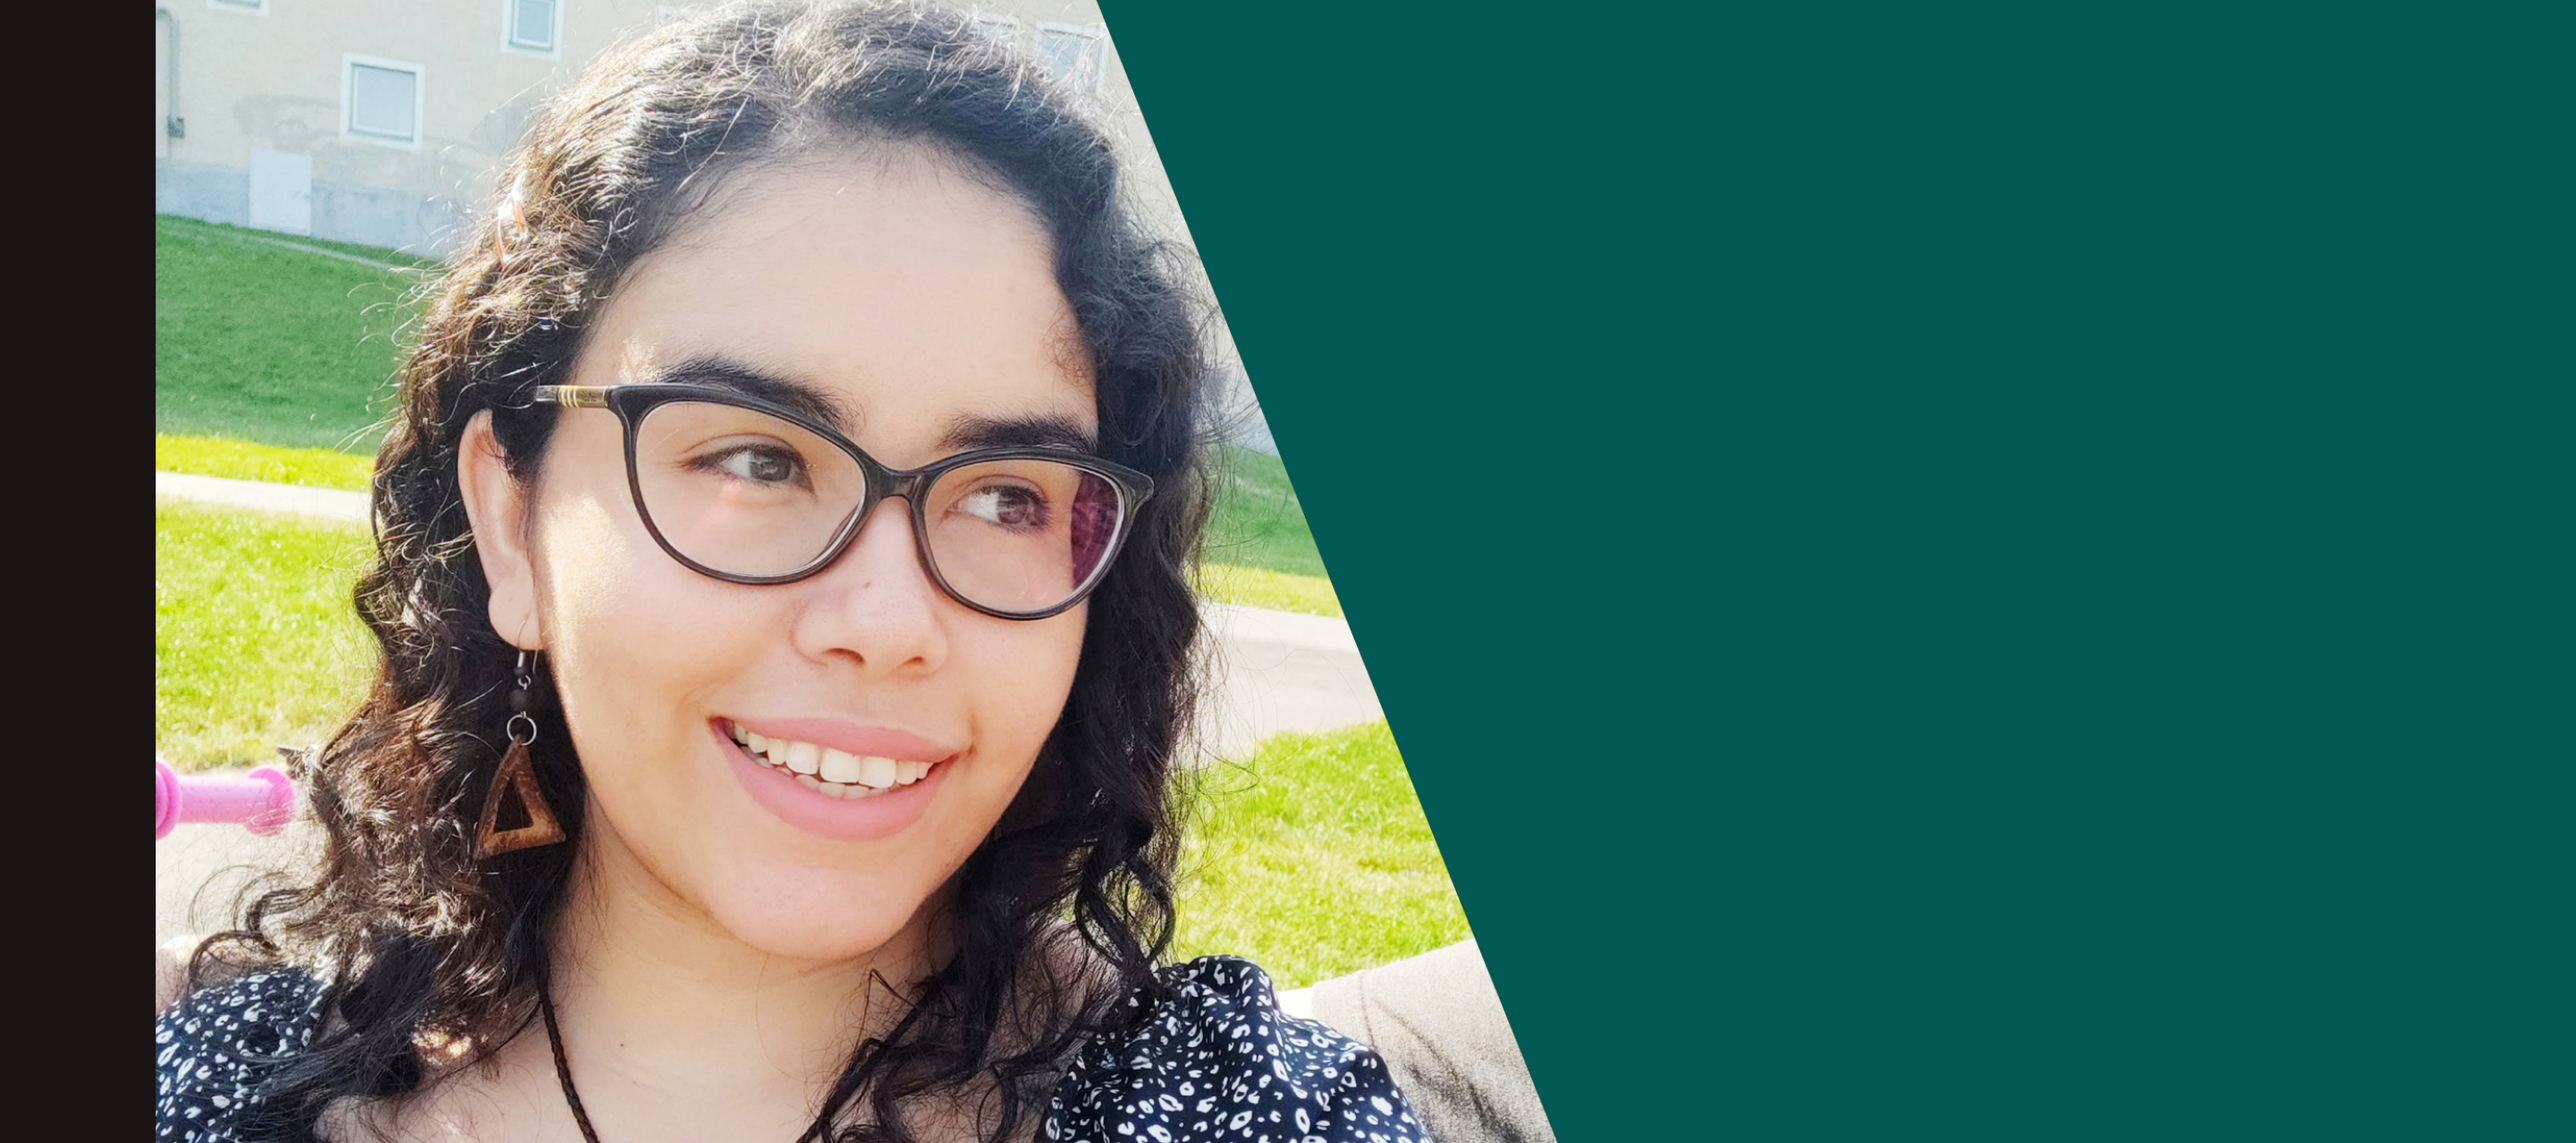
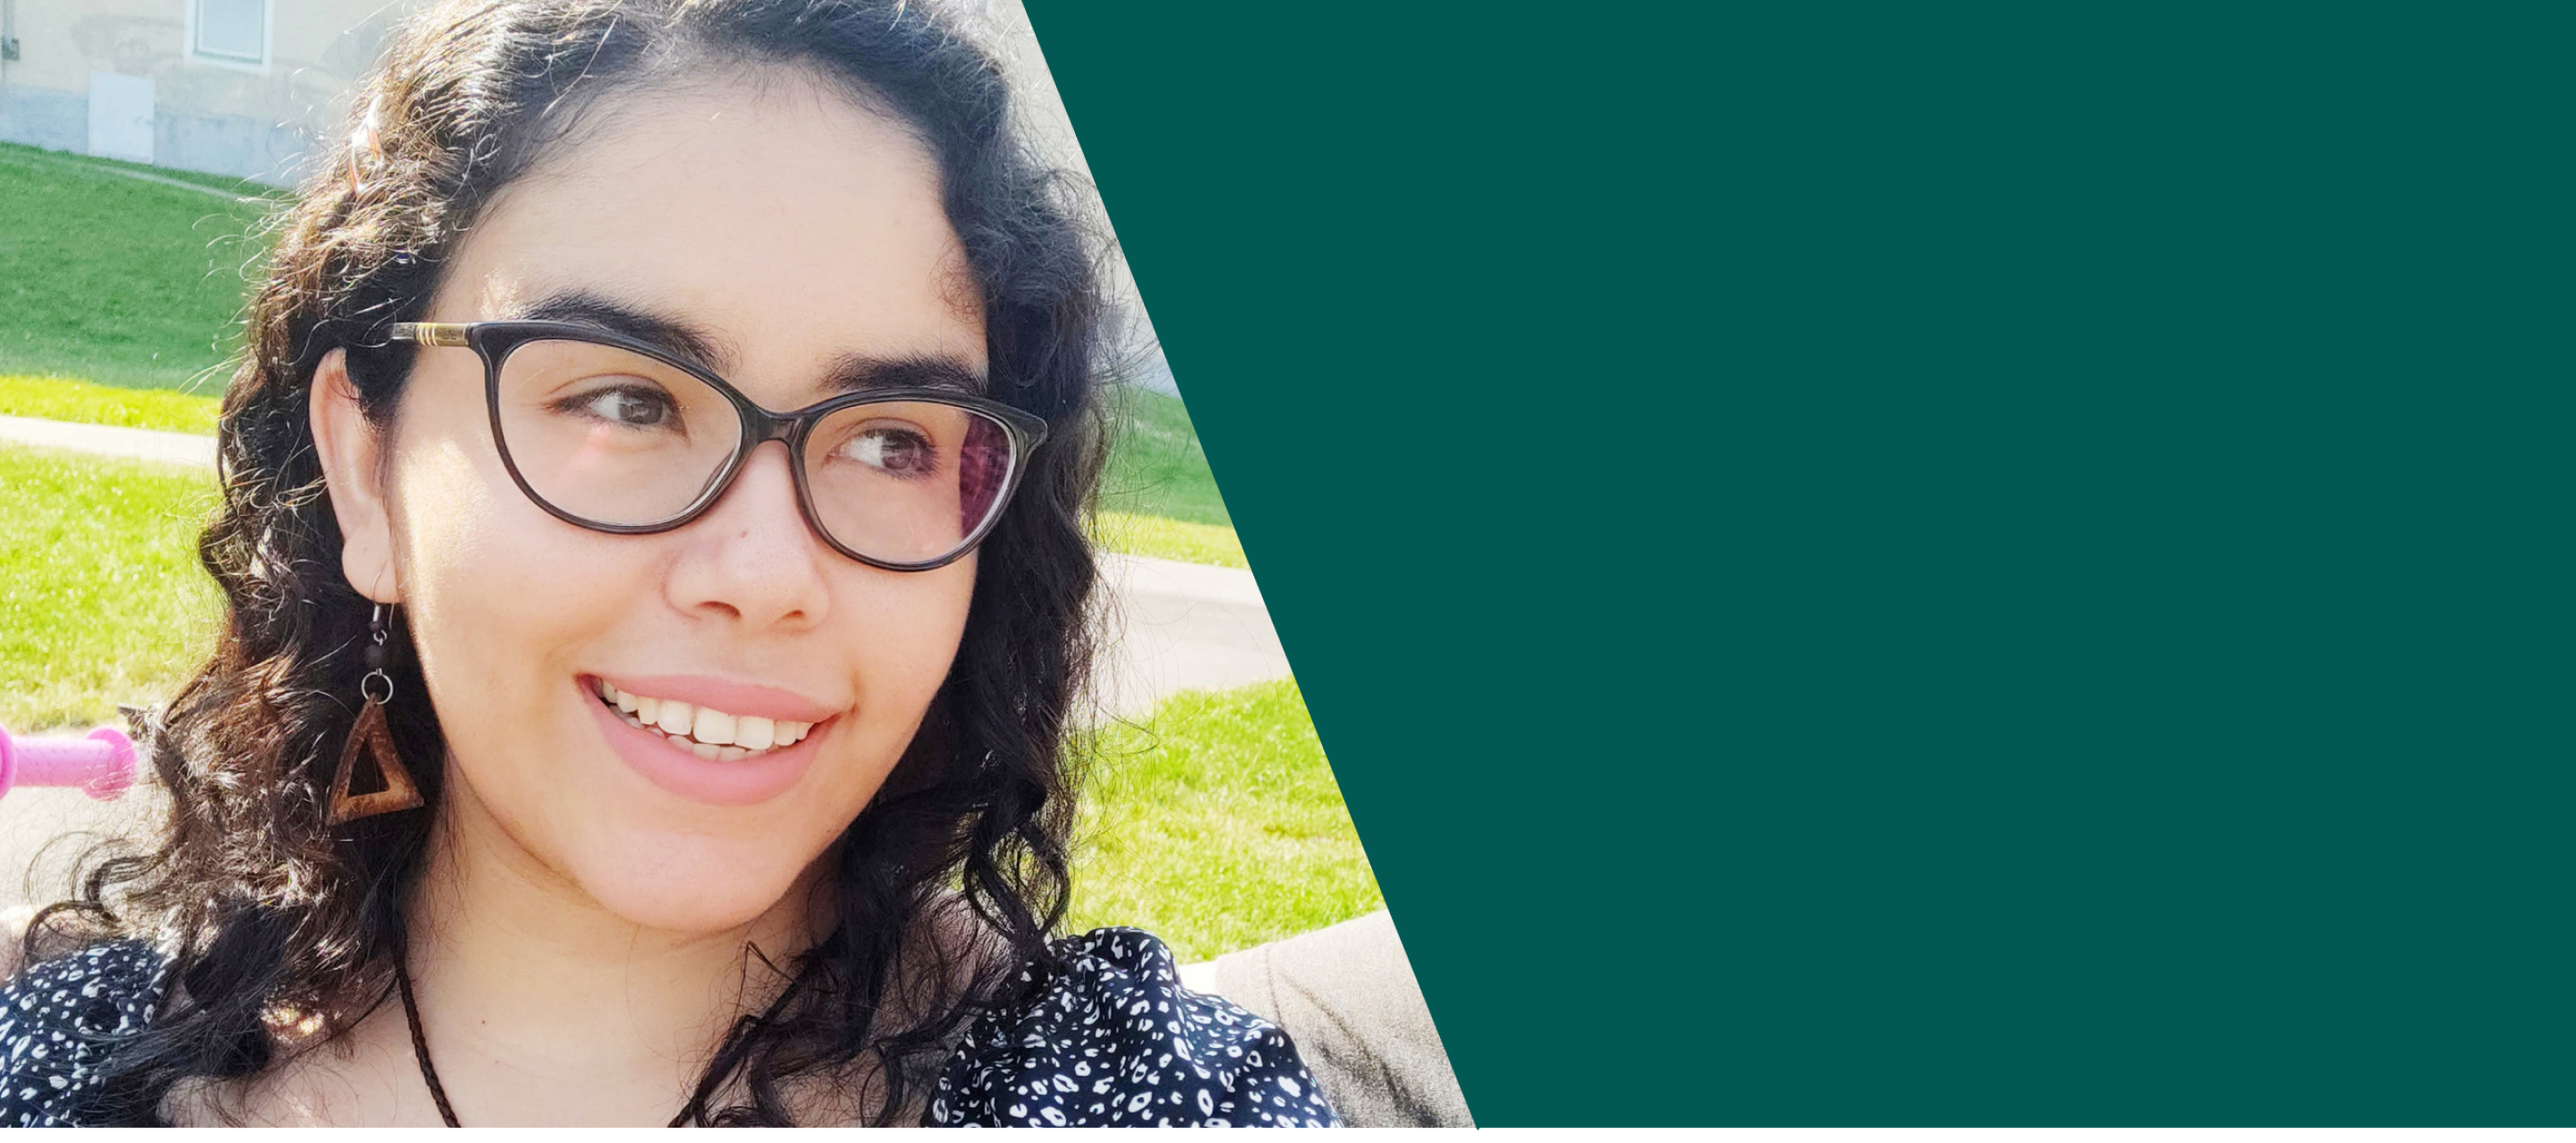
changed some html files and added some stylizations

diff --git a/public/styles/home.css b/public/styles/home.css
@@ -58,14 +58,15 @@ body {
 
 .header {
   width: 100%;
-  padding: 80px 70px 10px 10px;
-  height: 850px;
+  padding: 3vw;
+  height: 85vh;
+  margin-top: 10em;
   background-image: url("../img/myphoto.png");
   background-size: cover;
   display: flex;
   align-items: center;
   flex-direction: column;
-  flex-wrap: wrap;
+  flex-wrap: nowrap;
   align-content: flex-end;
   justify-content: center;
   align-self: center;
@@ -73,56 +74,91 @@ body {
 
 .no-fill {
   color: #fff;
-  font-size: 1.2rem;
-  margin: 4vh;
-  padding-top: 5vw;
-  width: 30%;
-  height: 10%;
-  font-family: Archivo, Consolas, "Courier New", monospace;
+  font-size: 2.1rem;
+  margin: 0 3em 0.5em 0;
+  padding-bottom: 0.6em;
+  padding-top: 3.5em;
+  width: 13em;
+  height: 8em;
+  font-family: Cabin, Consolas, "Courier New", monospace;
   text-decoration: none;
   line-height: 3rem;
   font-style: normal;
+  align-self: flex-end;
 }
 
-@media only screen and (max-width: 401px) {
+.about-blog {
+  padding: 2rem 2.8em 2em 0;
+  margin-right: 2em;
+  margin-top: 2em;
+  width: 20em;
+  height: 10em;
+  font-weight: 600;
+  line-height: 2.1rem;
+  font-family: Cabin, Arial, Helvetica, sans-serif;
+  font-size: 1.4rem;
+  color: rgb(255, 247, 247);
+  font-style: normal;
+  align-self: flex-end;
+}
+
+.social-icons {
+  align-self: flex-end;
+  padding: 2em;
+  align-items: space-between;
+
+}
+
+.social-icons a {
+  padding: 0.3em;
+}
+
+.social-icons img {
+  border-radius: 10px;
+  width: 50px;
+  height: 50px;
+}
+
+/*For Ipad*/
+@media only screen and (max-width: 1024px) {
   .navbar {
     width: 100%;
-    height: 100px;
+    height: 8em;
+    padding: 1em;
     position: fixed;
     display: flex;
-    flex-wrap: wrap;
-    justify-content: space-between;
+    justify-content: space-around;
     align-items: center;
-    padding: 0 5vw;
     background: #fff;
     z-index: 9;
   }
 
   .links-container {
-    display: flex;
-    flex-wrap: wrap;
+    align-items: center;
+    flex-wrap: nowrap;
+    margin: 0.2em;
+    
   }
 
-  .link {
-    padding: 5px;
-    margin-left: 5px;
+  .links-container li {
+    align-self: center;
+    font-size: 25px;
     text-decoration: none;
     color: #1b1415;
     font-family: Archivo, Arial, sans-serif;
     font-weight: 700;
-    font-size: 12px;
   }
 
   .logo {
-    width: 70px;
-    height: 70px;
+    width: 80px;
+    height: 80px;
+    margin-right: 2em;
   }
 
   .header {
-    padding-top: 2.8vh;
     width: 100%;
-    height: 30vh;
-    background-image: url("../img/me2.png");
+    height: 65vh;
+    background-image: url("../img/background-responsive.jpg");
     background-size: cover;
     display: flex;
     align-items: center;
@@ -131,28 +167,122 @@ body {
     align-content: center;
     justify-content: center;
     align-self: center;
+    padding: 1rem;
   }
-
   .no-fill {
-    font-size: 0.4 rem;
-    margin: 2vh;
-    padding-top: 2vw;
-    height: 5%;
+    color: #fff;
+    font-size: 1.6rem;
+    margin: 2em 0 0.3em 0;
+    padding-bottom: 0.4em;
+    padding-top: 2em;
+    width: 16em;
+    height: 8em;
+    font-family: Archivo, Consolas, "Courier New", monospace;
+    text-decoration: none;
+    line-height: 3rem;
+    font-style: normal;
+    align-self: center;
+  }
+  
+  .about-blog {
+    padding-right: 2em;
+    padding-top: 1.6em;
+    margin-left: 4rem;
+    width: 16em;
+    height: 8em;
+    font-weight: 600;
+    line-height: 1.9rem;
+    font-family: Cabin, Arial, Helvetica, sans-serif;
+    font-size: 1.1rem;
+    color: rgb(255, 247, 247);
+    font-style: normal;
+    align-self: flex-end;
   }
 }
 
-.about-blog {
-  padding: 3vw 2vw 0 6vw;
-  margin-top: 10vw;
-  margin-right: 4vw;
-  width: 30%;
-  height: 30%;
-  font-weight: 600;
-  line-height: 2.1rem;
-  font-family: Cabin, Arial, Helvetica, sans-serif;
-  font-size: 1.4rem;
-  color: rgb(255, 247, 247);
-  font-style: normal;
+/*For Mobile*/
+@media only screen and (max-width: 401px) {
+  .navbar {
+    width: 100%;
+    height: 8em;
+    margin-botton: 4rem;
+    padding: 1em;
+    position: fixed;
+    display: flex;
+    justify-content: space-around;
+    align-items: center;
+    background: #fff;
+    z-index: 9;
+  }
+
+  .links-container {
+    align-items: center;
+    flex-wrap: wrap;
+    margin: 0.2em;
+    
+
+  }
+
+  .links-container li {
+    padding-top: 1rem;
+    align-self: center;
+    font-size: 30px;
+    text-decoration: none;
+    color: #1b1415;
+    font-family: Archivo, Arial, sans-serif;
+    font-weight: 700;
+  }
+
+
+  .logo {
+    width: 70px;
+    height: 70px;
+    margin-right: 2em;
+  }
+
+  .header {
+    width: 100%;
+    height: 65vh;
+    background-image: url("../img/background-responsive.jpg");
+    background-size: cover;
+    display: flex;
+    align-items: center;
+    flex-direction: column;
+    flex-wrap: wrap;
+    align-content: center;
+    justify-content: center;
+    align-self: center;
+    padding: 1rem;
+  }
+  .no-fill {
+    color: #fff;
+    font-size: 1.5rem;
+    margin: 3em 0 0.3em 0;
+    padding-bottom: 0.4em;
+    padding-top: 3em;
+    width: 13em;
+    height: 8em;
+    font-family: Archivo, Consolas, "Courier New", monospace;
+    text-decoration: none;
+    line-height: 2rem;
+    font-style: normal;
+    align-self: center;
+  }
+  
+  .about-blog {
+    padding-right: 2em;
+    padding-top: 1.5em;
+    margin-left: 4rem;
+    width: 18em;
+    height: 8em;
+    font-weight: 600;
+    line-height: 1.5rem;
+    font-family: Cabin, Arial, Helvetica, sans-serif;
+    font-size: 1.1rem;
+    color: rgb(255, 247, 247);
+    font-style: normal;
+    align-self: flex-end;
+  }
 }
 
 /*Blog card model*/

diff --git a/public/home.html b/public/home.html
@@ -29,9 +29,8 @@
     <nav class="navbar">
       <a href="home.html"><img src="img/logo.svg"  class="logo" alt="logo" /></a>
       <ul class="links-container">
-        <li class="link-item"><a href="home.html" class="link">Home</a></li>
-        <li class="link-item"><a href="blog.html" class="link">Blog</a></li>
-        <li class="link-item"><a href="portfolio.html" class="link">Portfolio</a></li>
+        <li class="link-item"><a href="articles.html" class="link">Articles</a></li>
+        <li class="link-item"><a href="https://bilianemoreira.com/" class="link">Portfolio</a></li>
         <li class="link-item"><a href="aboutme.html" class="link">About me</a></li>
       </ul>
     </nav>
@@ -43,8 +42,16 @@
         
         <p class="about-blog">Here I write about my journey as a Frontend Developer 
           and UX/UI Designer, as well some tips and summaries about this two worlds.
-        </p>           
+        </p>         
+        
+        <div class="social-icons">
+          <a href="https://www.linkedin.com/in/bilianemoreira/" target="_blank"><img src="img/linkedin.svg" alt="linkedin page"/></a>
+          <a href="https://github.com/bilianemoreira" target="_blank"><img src="img/github.svg" alt="github page"/></a>
+          <a href="https://www.behance.net/bilianemoreira" target="_blank"><img src="img/behance.svg" alt="behance page"/></a>
+          <a href="https://twitter.com/BilianeMoreira" target="_blank"><img src="img/twitter.svg" alt="twitter page"/></a>
+        </div>
       </div>
+
 
     <section class="blogs-section">
       <div class="blog-card">

diff --git a/public/aboutme.html b/public/aboutme.html
@@ -1,4 +1,4 @@
-<!DOCTYPE html>
+!DOCTYPE html>
 <html lang="">
   <head>
     <meta charset="UTF-8" />
@@ -27,25 +27,5 @@
         <li class="link-item"><a href="aboutme.html" class="link">About me</a></li>
       </ul>
     </nav>
-
-    <div class="banner"></div>
-    <div class="blog">
-      <h1 class="title"></h1>
-      <p class="published"><span>published at - </span></p>
-      <div class="article"></div>
-      <section class="blogs-section">
-        <div class="blog-card">
-          <img src="img/img3.jpg" class="blog-image" alt="" />
-          <h1 class="blog-title">Lorem ipsum dolor sit amet consectetur.</h1>
-          <p class="blog-overview">
-            Lorem ipsum dolor sit amet consectetur adipisicing elit. Sunt
-            incidunt fugiat quos porro repellat harum. Adipisci tempora corporis
-            rem cum.
-          </p>
-          <a href="/" class="btn dark">read</a>
-        </div>
-      </section>
-      <h1 class="sub-heading">Read more</h1>
-    </div>
   </body>
 </html>
